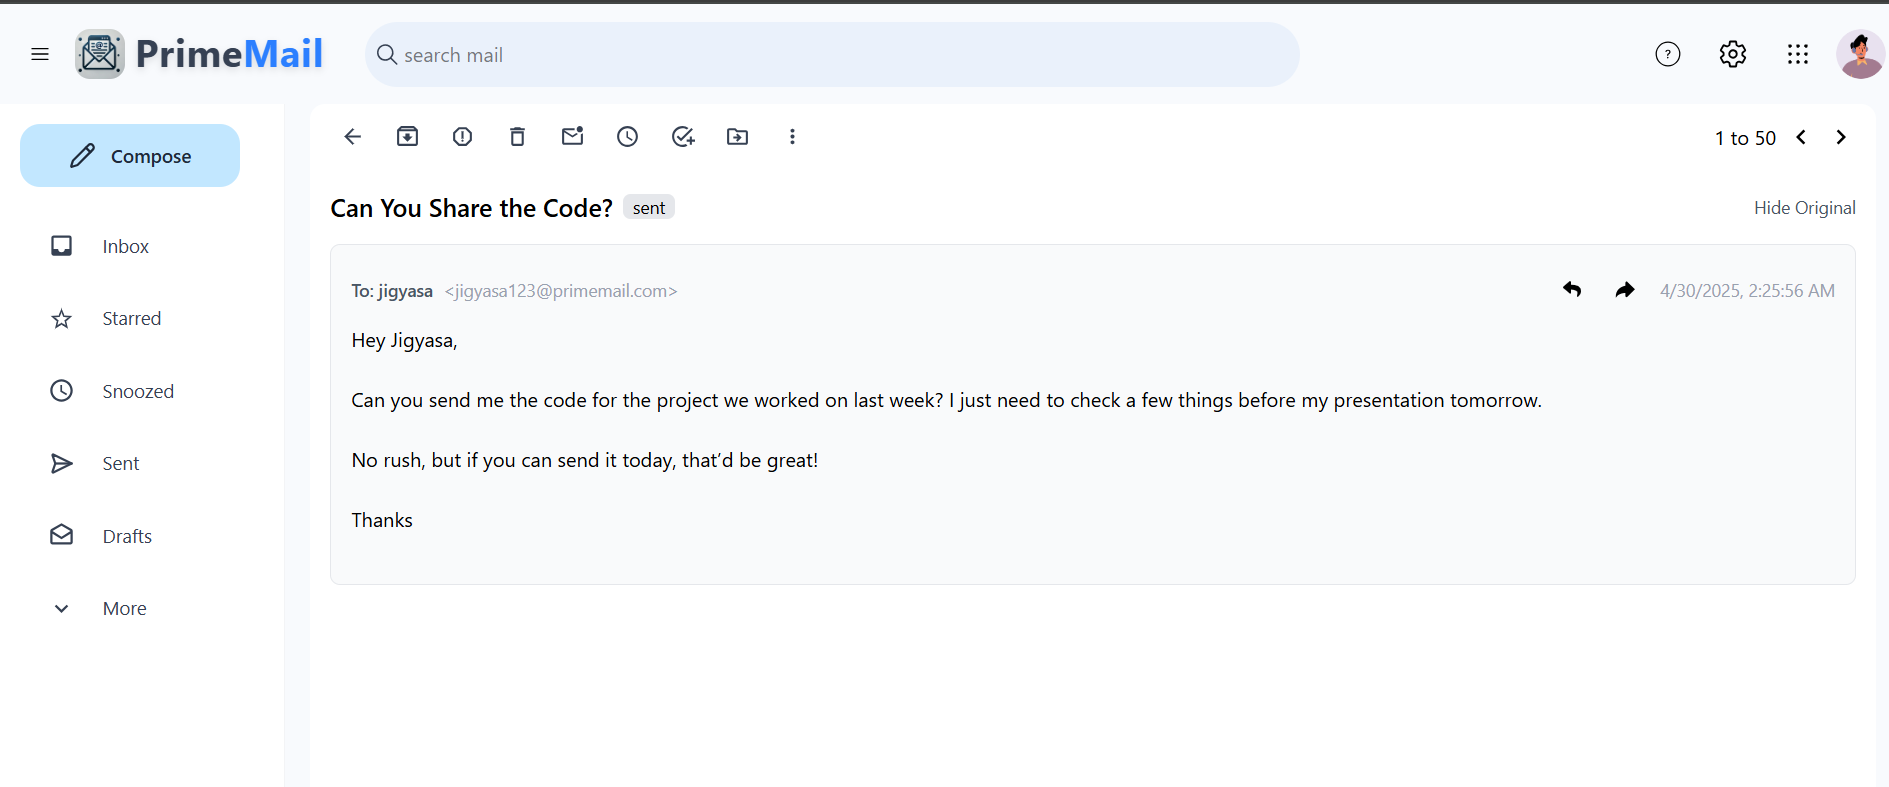
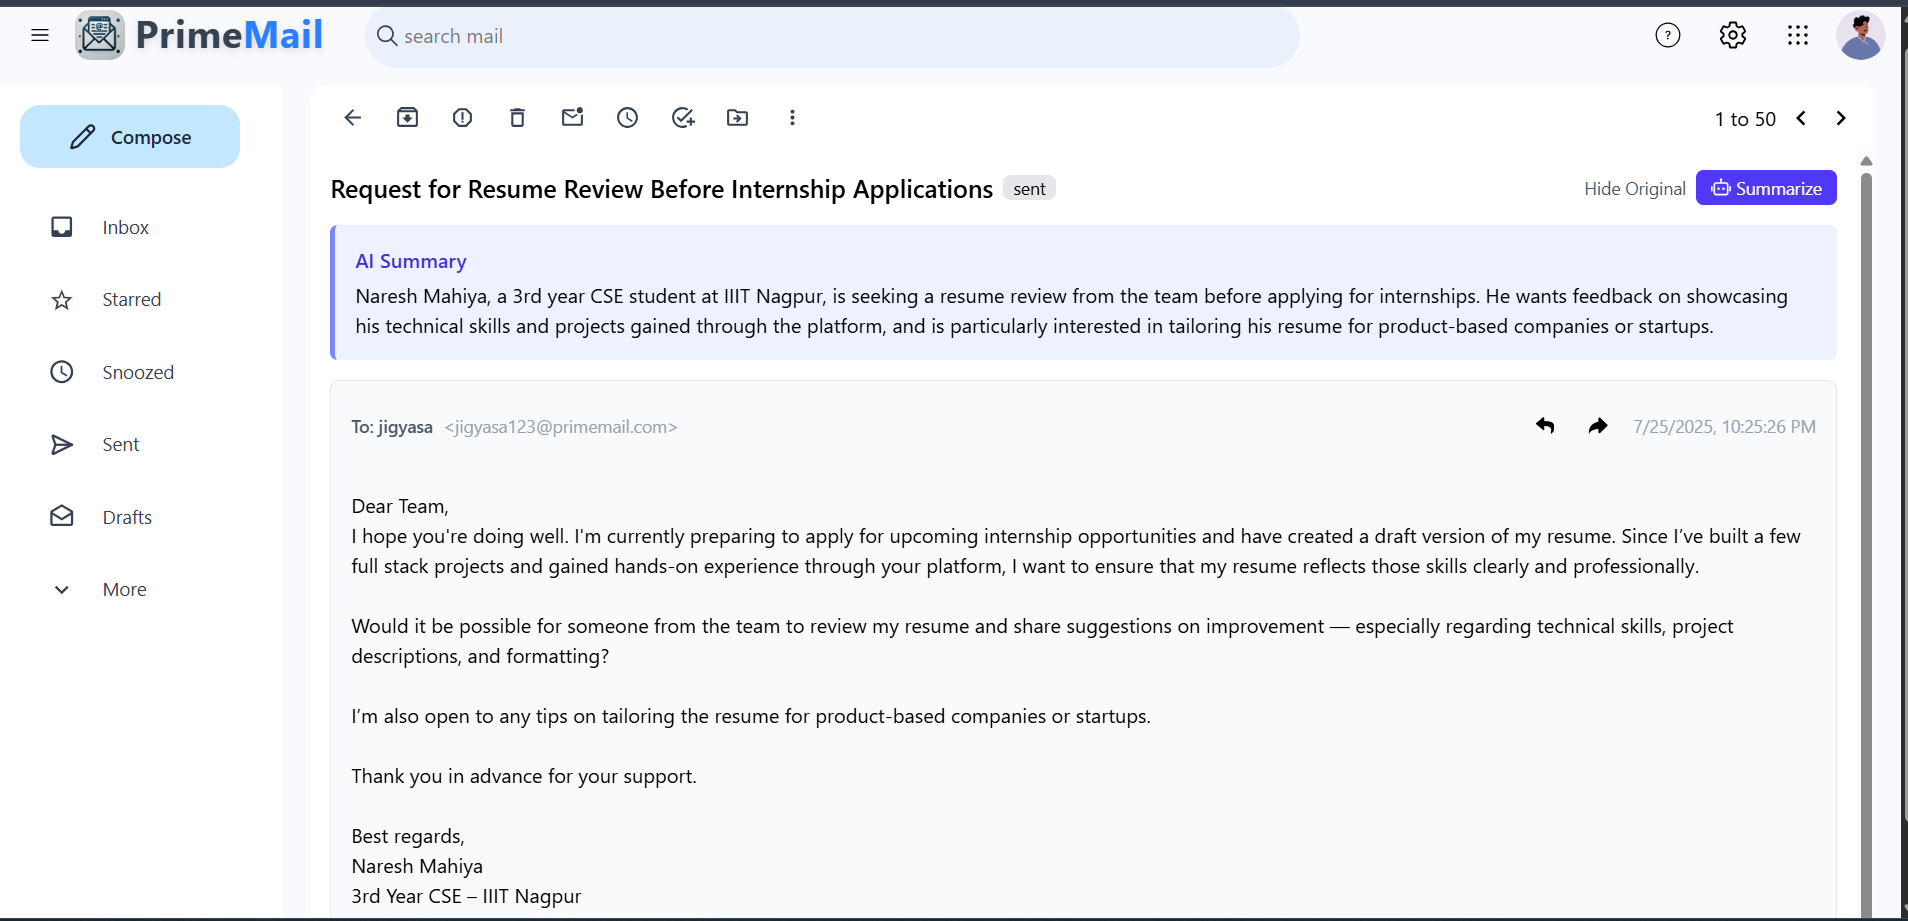
readme

diff --git a/README.md b/README.md
@@ -2,66 +2,75 @@
 
 ![PrimeMail Logo](https://via.placeholder.com/150x50?text=PrimeMail)
 
-PrimeMail is a modern, feature-rich email platform built with the MERN stack and AI capabilities. It provides a Gmail-like interface with advanced email management capabilities and intelligent features to enhance productivity.
+PrimeMail is a modern, feature-rich email platform built with the MERN stack and AI capabilities. It provides a Gmail-like interface with advanced AI Powered email management capabilities and intelligent features to enhance productivity.
 
-## Features
+## ✨ Features
 
-- **User Authentication**: registration and login system with welcome email on signup
-- **Email Composition**: Create and send emails to multiple recipients
-- **Email Organization**: Inbox, Sent, and Starred views
-- **Email Threading**: View complete email conversations in threads
-- **Email Actions**: Reply, forward, star/unstar, and delete emails
-- **Email Scheduling**: Schedule emails to be sent at a later time
-- **Email Tracking**: Track when emails are read by recipients with blue read ticks
-- **Responsive UI**: Modern interface built with React and Tailwind CSS
+- **User Authentication**
+  - Secure registration and login system
+  - JWT-based authentication
+  - Protected routes
 
+- **Email Management**
+  - Compose and send emails to multiple recipients
+  - Rich text email composition
+  - File attachments support
+  - Inbox, Sent, and Starred folders
+  - Email threading and conversations
+  - Reply and forward functionality
 
-## Screenshots
+- **User Experience**
+  - Modern, responsive UI built with Tailwind CSS
+  - Real-time email updates
+  - Loading states and error handling
+  - Toast notifications
 
-### Mail View
+- **AI-Powered Features**
+  - AI Email Composition Assistant
+  - Smart reply suggestions
+  - Email summarization
+
+## 🖥 Screenshots
+
+### Mail View & AI-summery 
 ![Mail View](./screenshots/mail-view.png)
 
 ### Sent Box
 ![Sent Box](./screenshots/sentbox.png)
 
+### AI composer
+![Sent Box](./screenshots/AI-composer.png)
+
 ### Reply Mail
 ![Reply Mail](./screenshots/reply-mail.png)
 
-
-
-## <span style="color:blue; font-weight:bold;">Actively working hard on the following features:</span>
-
-- **Attachment Support**: Send and receive files of various formats
-- **Advanced Search**: Find any email instantly with powerful search capabilities
-- **AI-Powered Features**:
-  - Email summarization to quickly grasp long conversations
-  - Smart email composition assistance
-  - Automatic email categorization (Urgent, Work, Personal, etc.)
-- **Cross-Platform Integration**: Seamless communication with other email services
-- **Two-Factor Authentication (2FA)**: Enhanced security for your email account
-- **Email Drafts**: Save emails to finish composing later
-- **Smart Categories & Labels**: Organize your emails with custom categories
-
-## Tech Stack
+## 🚀 Tech Stack
 
 ### Frontend
-- React 18
+- React 18 with Vite
 - Redux Toolkit for state management
-- React Router for navigation
+- React Router v7 for navigation
 - Tailwind CSS for styling
 - Framer Motion for animations
+- React Icons and Lucide Icons
 - Axios for API requests
 - React Hot Toast for notifications
 - React Avatar for user avatars
 
 ### Backend
-- Node.js with Express
+- Node.js with Express.js
 - MongoDB with Mongoose ODM
 - JWT for authentication
-- bcryptjs for password hashing
-- node-cron for scheduling emails
+- Cloudinary for file storage
+- Nodemailer for email sending
+- Bcrypt for password hashing
+- Node-Cron for scheduling emails
 
-## Project Structure
+### AI Integration
+- OpenAI API for AI-powered features
+- Natural language processing for email assistance
+-
+## 🏗 Project Structure
 
 ```
 primemail/
@@ -72,6 +81,7 @@ primemail/
 │   ├── models/             # Mongoose models
 │   ├── routes/             # API routes
 │   ├── scripts/            # Utility scripts
+│   ├── utils/              # Helper functions
 │   └── index.js            # Server entry point
 │
 ├── frontend/               # React frontend
@@ -81,62 +91,110 @@ primemail/
 │       ├── components/     # React components
 │       ├── hooks/          # Custom React hooks
 │       ├── redux/          # Redux store and slices
+│       ├── api.js          # API configuration
 │       ├── App.jsx         # Main application component
 │       └── main.jsx        # Application entry point
 ```
 
-## Getting Started
+## 🚀 Getting Started
 
+
+### Prerequisites
+
+- Node.js (v16 or higher)
+- npm (v8 or higher)
+- MongoDB Atlas account or local MongoDB instance
+- Cloudinary account (for file uploads)
+- OpenAI API key (for AI features)
 
 ### Installation
 
 1. Clone the repository
-   ```
+   ```bash
    git clone https://github.com/naresh-mahiya/primemail-email-plateform.git
    cd primemail
    ```
 
-2. Install backend dependencies
-   ```
+2. Set up the backend
+   ```bash
    cd backend
    npm install
+   cp .env.example .env
+   # Update the .env file with your configuration
    ```
 
-3. Set up environment variables
-   Create a `.env` file in the backend directory with the following variables:
-   ```
-   MONGO_URI=your_mongodb_connection_string
-   JWT_SECRET=your_jwt_secret
-   ```
-
-4. Install frontend dependencies
-   ```
+3. Set up the frontend
+   ```bash
    cd ../frontend
    npm install
+   cp .env.example .env
+   # Update the .env file with your API endpoints
    ```
+
+### Configuration
+
+#### Backend (.env)
+```
+PORT=5000
+MONGO_URI=your_mongodb_connection_string
+JWT_SECRET=your_jwt_secret
+JWT_EXPIRE=30d
+CLOUDINARY_CLOUD_NAME=your_cloudinary_cloud_name
+CLOUDINARY_API_KEY=your_cloudinary_api_key
+CLOUDINARY_API_SECRET=your_cloudinary_api_secret
+OPENAI_API_KEY=your_openai_api_key
+```
+
+#### Frontend (.env)
+```
+VITE_API_BASE_URL=http://localhost:5000/api
+```
 
 ### Running the Application
 
 1. Start the backend server
-   ```
+   ```bash
    cd backend
    npm run dev
    ```
 
 2. Start the frontend development server
-   ```
+   ```bash
    cd frontend
    npm run dev
    ```
 
 3. Open your browser and navigate to `http://localhost:5173`
 
+## 📦 Deployment
 
+The application is configured for deployment on Vercel (frontend) and Render/Railway (backend).
 
-## Author
+### Frontend Deployment
 
-- **Naresh Mahiya** - [GitHub Profile](https://github.com/naresh-mahiya)
+1. Push your code to a GitHub repository
+2. Import the repository to Vercel
+3. Set up environment variables in the Vercel dashboard
+4. Deploy!
 
-## License
+### Backend Deployment
 
-This project is licensed under the ISC License
+1. Push your code to a GitHub repository
+2. Create a new web service on Render/Railway
+3. Set up environment variables
+4. Deploy!
+
+## 🤝 Contributing
+
+Contributions are welcome! Please feel free to submit a Pull Request.
+
+1. Fork the repository
+2. Create your feature branch (`git checkout -b feature/AmazingFeature`)
+3. Commit your changes (`git commit -m 'Add some AmazingFeature'`)
+4. Push to the branch (`git push origin feature/AmazingFeature`)
+5. Open a Pull Request
+
+## 📄 License
+
+This project is licensed under the ISC License - see the [LICENSE](LICENSE) file for details.
+
